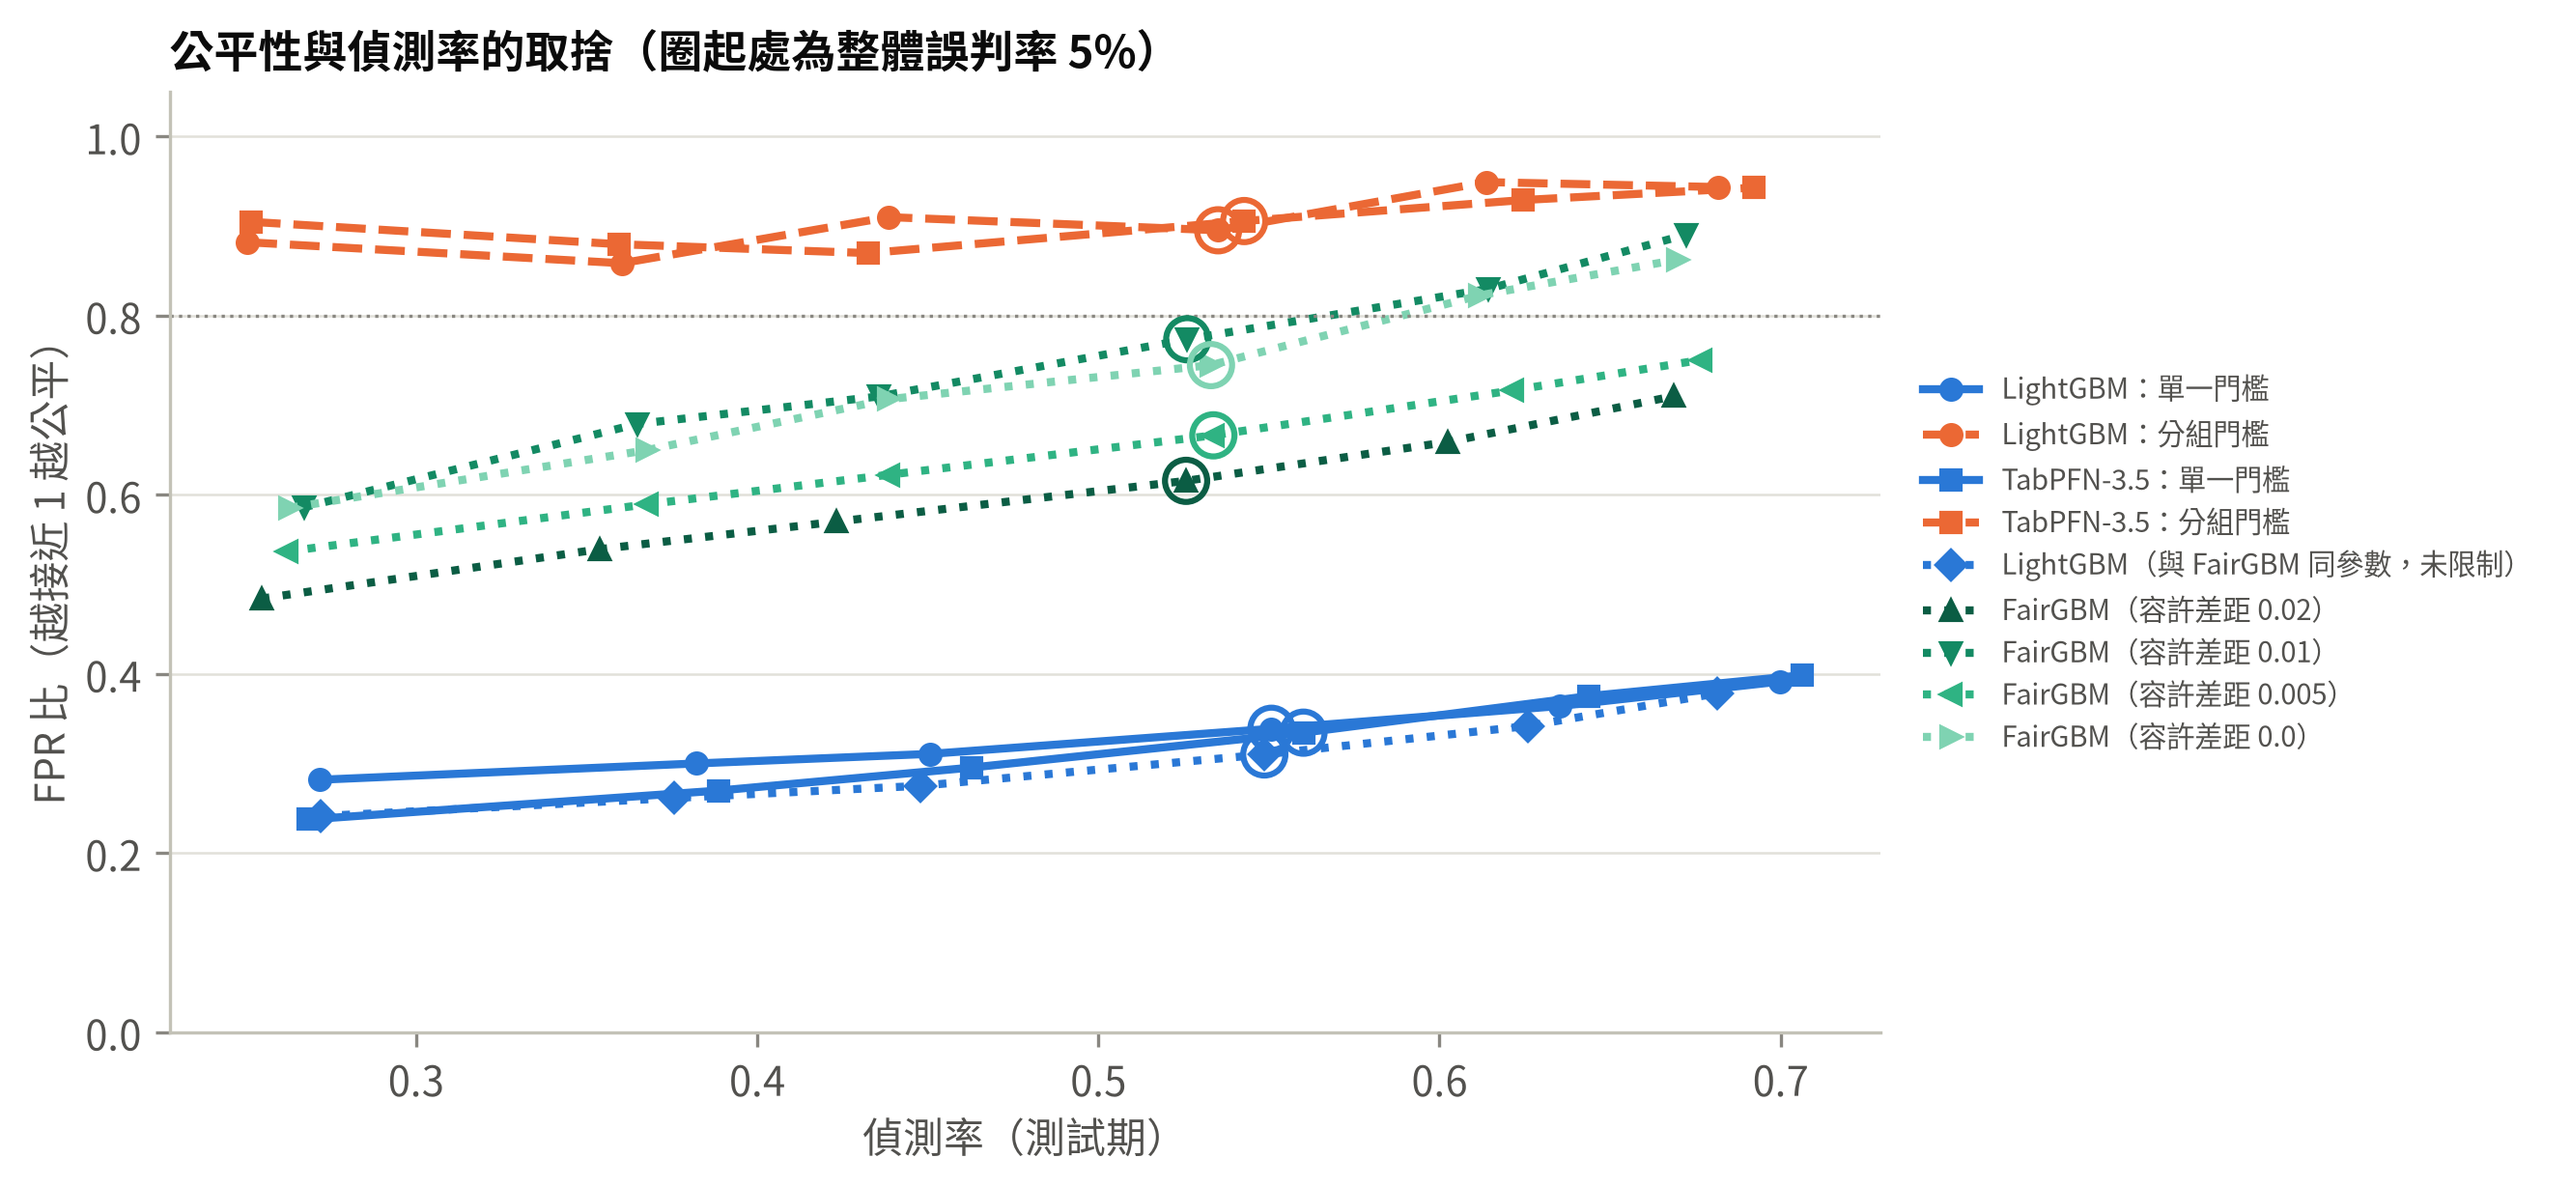
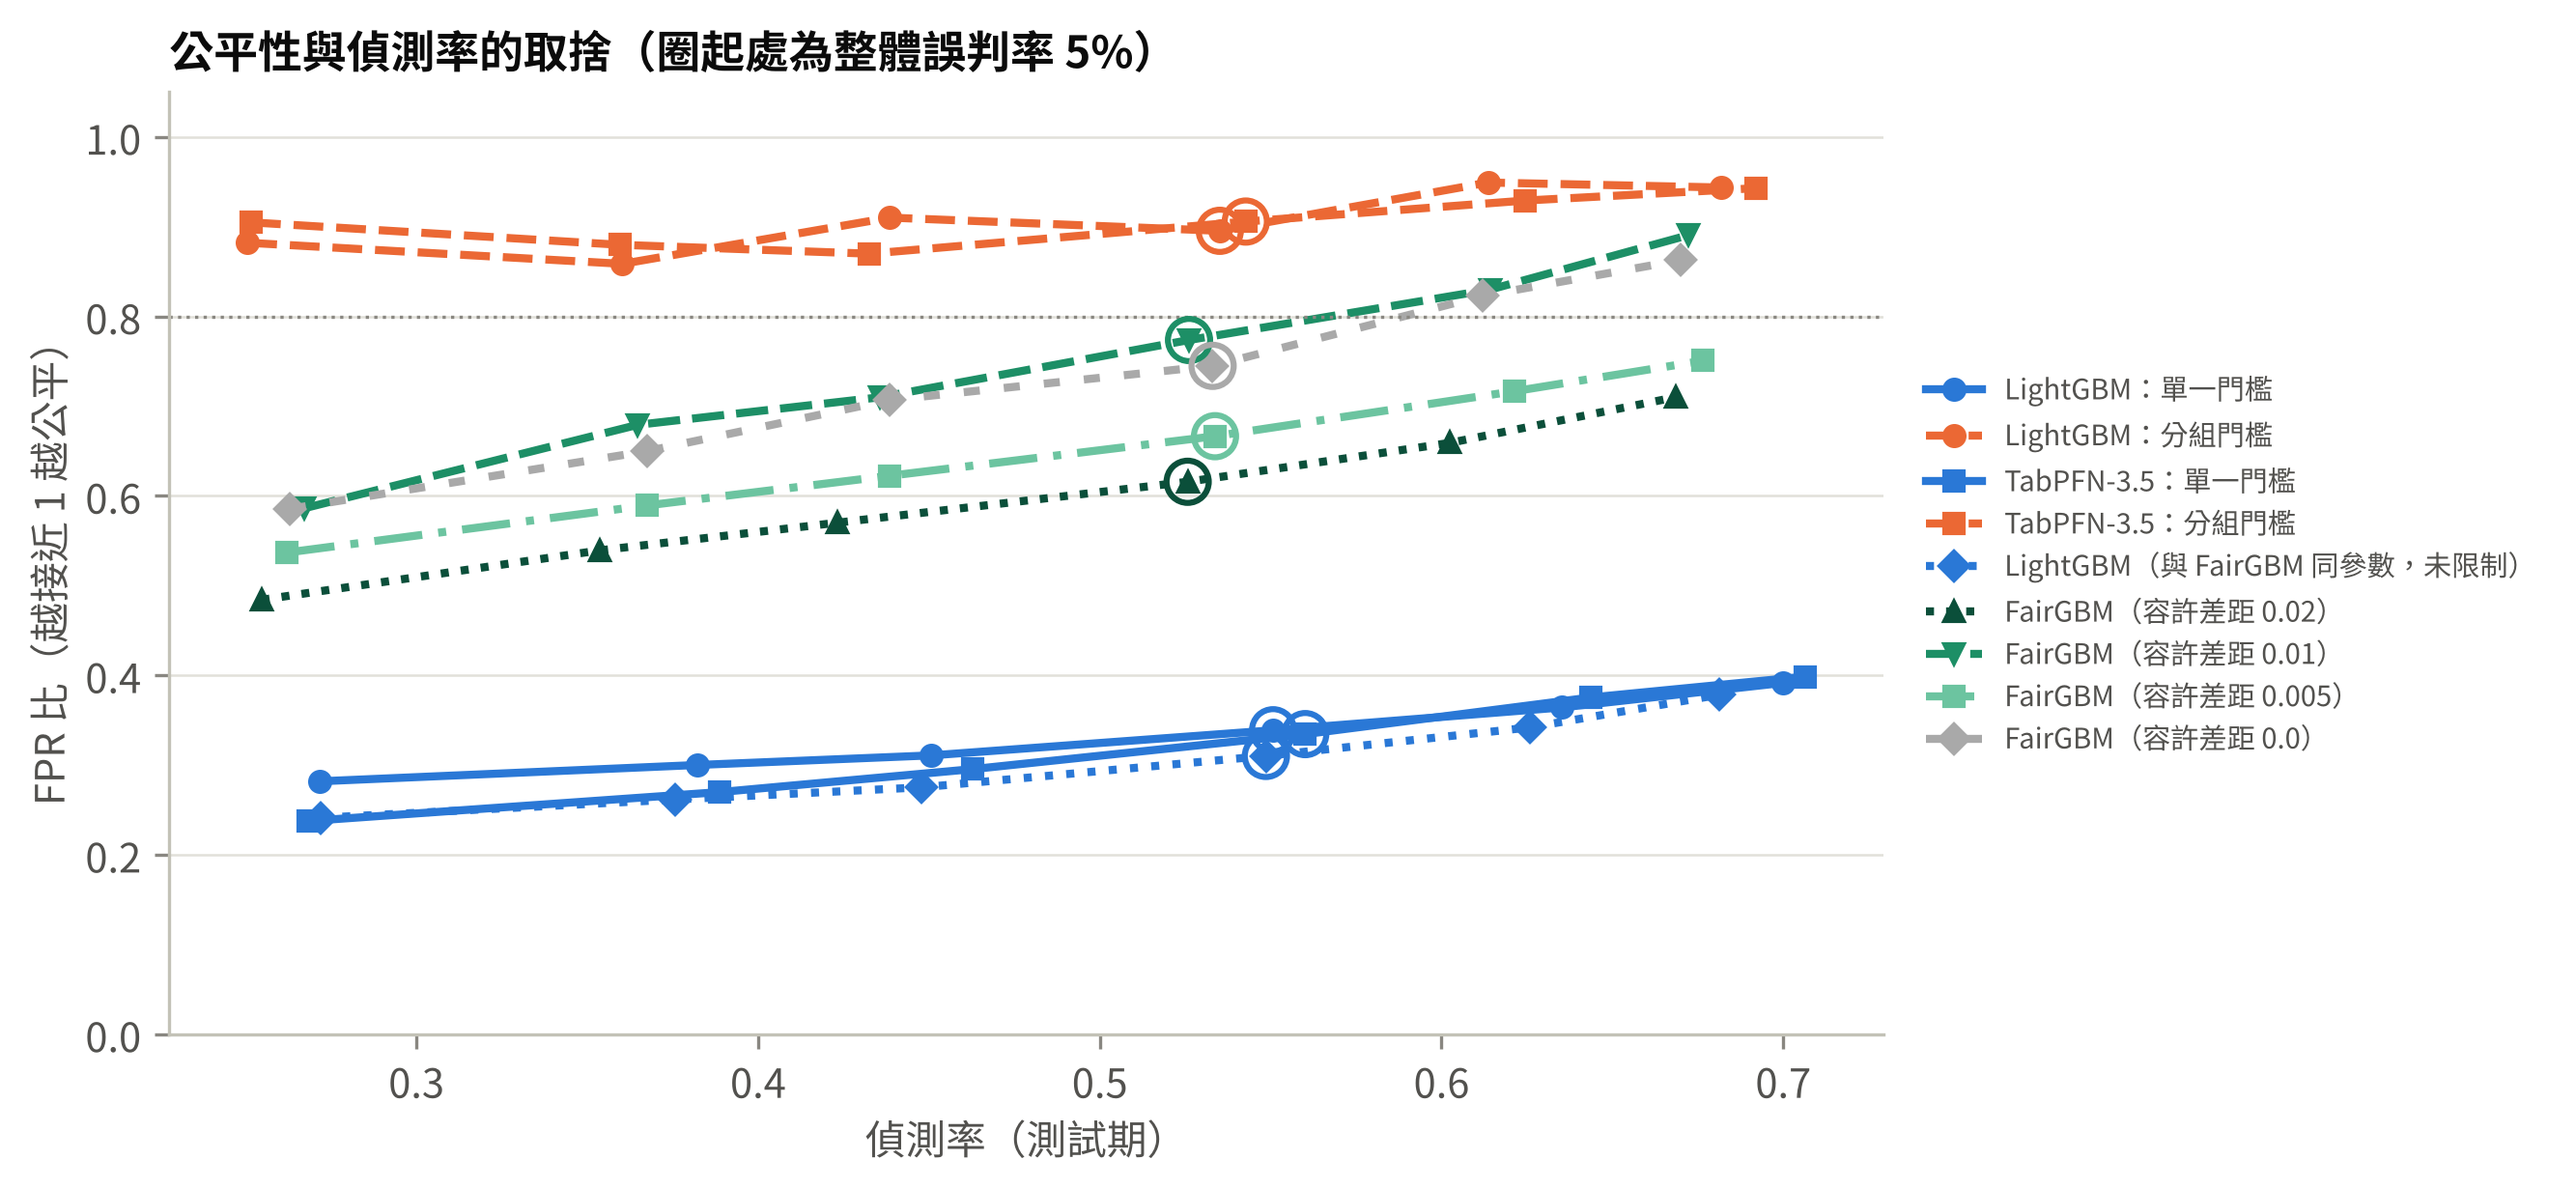
Polish after the third review (#4)
Distinguish the FairGBM lines in figure 4-9, clarify the SHAP dependence plot, give exact savings in the abstract and README, and state the learning-curve comparison precisely.

diff --git a/src/frauddetect/experiments/fairness_exp.py b/src/frauddetect/experiments/fairness_exp.py
@@ -269,11 +269,11 @@ def fairgbm_runs(ctx: ExperimentContext, variant: str) -> pd.DataFrame:
     return pd.DataFrame(rows)
 
 
-FAIRGBM_STYLES = {  # tolerance -> (colour, marker); darker means a looser constraint
-    0.02: ("#0b5d44", "^"),
-    0.01: ("#138a63", "v"),
-    0.005: ("#2fb383", "<"),
-    0.0: ("#7fd3b2", ">"),
+FAIRGBM_STYLES = {  # tolerance -> (colour, marker, line); darker means a looser constraint
+    0.02: ("#0b4f3a", "^", (0, (1, 1.5))),
+    0.01: ("#1d8f66", "v", (0, (4, 1.5))),
+    0.005: ("#6cc4a0", "s", (0, (6, 2, 1, 2))),
+    0.0: ("#a9a9a9", "D", (0, (2, 3))),
 }
 
 
@@ -287,8 +287,16 @@ def _tradeoff_style(model: str, method: str) -> tuple[str, str, str]:
         return BLUE, "D", "LightGBM（與 FairGBM 同參數，未限制）"
     tolerance = model.split("_tol")[-1].split("_mlr")[0]
     # one marker and shade per tolerance, so the four FairGBM lines can be told apart
-    shade, marker = FAIRGBM_STYLES.get(float(tolerance), (AQUA, "^"))
+    shade, marker, _ = FAIRGBM_STYLES.get(float(tolerance), (AQUA, "^", ":"))
     return shade, marker, f"FairGBM（容許差距 {tolerance}）"
+
+
+def _tradeoff_line(model: str, method: str, default: str):
+    """Line style: per tolerance for FairGBM, so its four lines differ in more than shade."""
+    if method == "in_processing" and "_tol" in model:
+        tolerance = float(model.split("_tol")[-1].split("_mlr")[0])
+        return FAIRGBM_STYLES.get(tolerance, (None, None, default))[2]
+    return default
 
 
 def plot_tradeoff(table: pd.DataFrame, target: float):
@@ -301,7 +309,7 @@ def plot_tradeoff(table: pd.DataFrame, target: float):
         ax.plot(
             part["tpr"],
             part["fpr_ratio"],
-            ls=styles[method],
+            ls=_tradeoff_line(model, method, styles[method]),
             color=color,
             marker=marker,
             markersize=5,

diff --git a/src/frauddetect/experiments/explain_exp.py b/src/frauddetect/experiments/explain_exp.py
@@ -102,6 +102,9 @@ def plot_dependence(values: np.ndarray, X: pd.DataFrame, table: pd.DataFrame, to
         ax.scatter(X[feature], values[:, j], s=4, alpha=0.35, color=BLUE, rasterized=True)
         ax.axhline(0, color=INK_MUTED, lw=0.8)
         ax.set(title=feature, xlabel="特徵值", ylabel="SHAP")
+        levels = np.unique(X[feature].dropna())
+        if set(levels) <= {0, 1}:  # binary feature: label only its two values
+            ax.set_xticks([0, 1])
     fig.tight_layout()
     return fig
 

diff --git a/README.md b/README.md
@@ -41,8 +41,8 @@
 ![公平性與偵測率的取捨](reports/paper/figures/e6_tradeoff.png)
 
 **3. 「加強驗證＋限額開戶」比「直接拒絕」更划算。**
-在相同的人力上限下（加強驗證 10%、人工審核 2%），三級分流的期望損失比最佳的二元決策低 45%，
-也比原論文的二元決策（需把 6.59% 的申請轉人工審核）低 24%；加入公平性限制只多出約 4% 的成本。
+在相同的人力上限下（加強驗證 10%、人工審核 2%），三級分流的期望損失比最佳的二元決策低 44.8%，
+也比原論文的二元決策（需把 6.59% 的申請轉人工審核）低 23.8%；加入公平性限制只多出 3.6% 的成本。
 效益主要來自限額帳戶降低了詐騙損失，關鍵在於加強驗證（視訊、電信驗證）的處理能量；
 固定門檻上線後的審核量會隨分數分布漂移，需以近期的分數分布換算門檻，才能守住人力上限。
 
